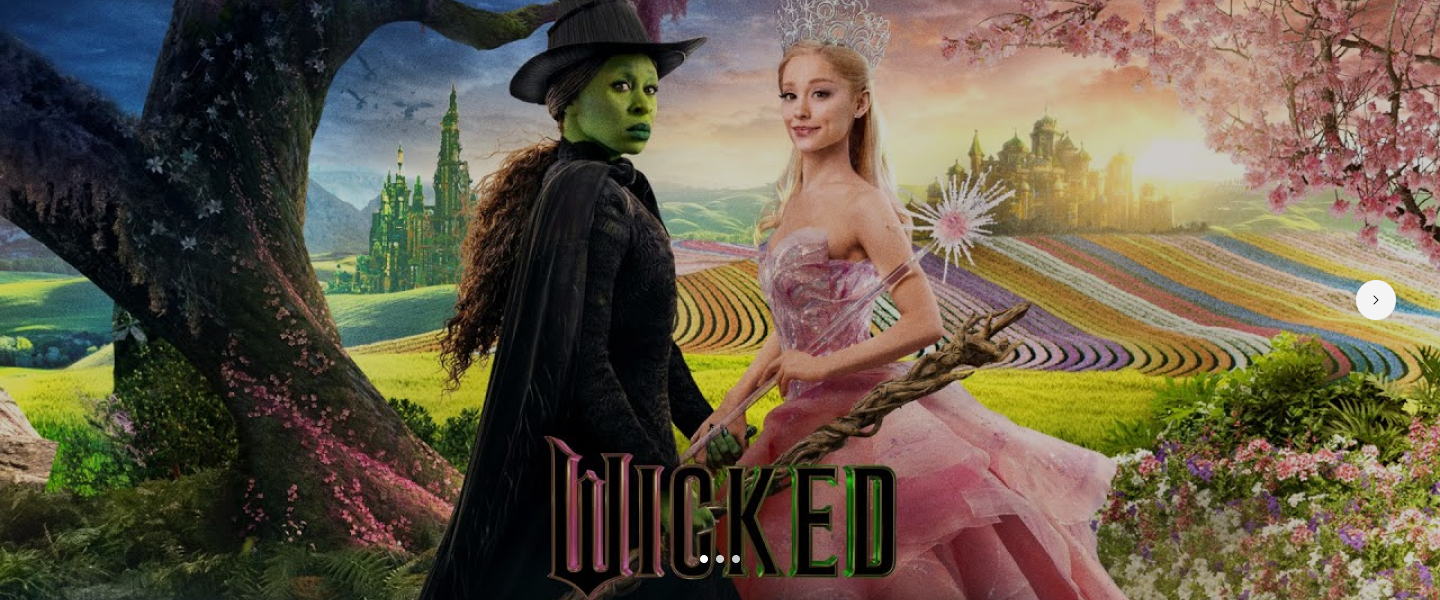
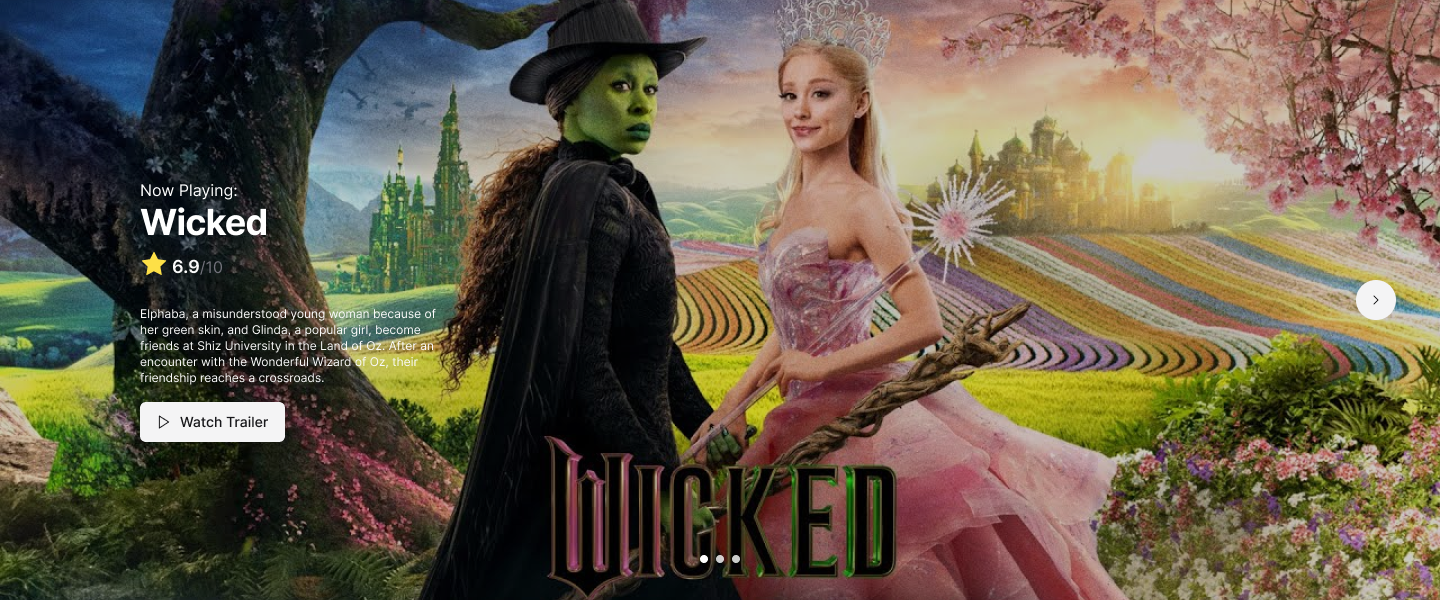
commit6

Changed region(s): [[0.0938, 0.51, 0.3125, 0.75], [0.0938, 0.3, 0.1875, 0.39], [0.0938, 0.42, 0.1562, 0.45]]

diff --git a/src/components/ui/pagination.tsx b/src/components/ui/pagination.tsx
@@ -1,0 +1,117 @@
+import * as React from "react"
+import { ChevronLeft, ChevronRight, MoreHorizontal } from "lucide-react"
+
+import { cn } from "@/lib/utils"
+import { ButtonProps, buttonVariants } from "@/components/ui/button"
+
+const Pagination = ({ className, ...props }: React.ComponentProps<"nav">) => (
+  <nav
+    role="navigation"
+    aria-label="pagination"
+    className={cn("mx-auto flex w-full justify-center", className)}
+    {...props}
+  />
+)
+Pagination.displayName = "Pagination"
+
+const PaginationContent = React.forwardRef<
+  HTMLUListElement,
+  React.ComponentProps<"ul">
+>(({ className, ...props }, ref) => (
+  <ul
+    ref={ref}
+    className={cn("flex flex-row items-center gap-1", className)}
+    {...props}
+  />
+))
+PaginationContent.displayName = "PaginationContent"
+
+const PaginationItem = React.forwardRef<
+  HTMLLIElement,
+  React.ComponentProps<"li">
+>(({ className, ...props }, ref) => (
+  <li ref={ref} className={cn("", className)} {...props} />
+))
+PaginationItem.displayName = "PaginationItem"
+
+type PaginationLinkProps = {
+  isActive?: boolean
+} & Pick<ButtonProps, "size"> &
+  React.ComponentProps<"a">
+
+const PaginationLink = ({
+  className,
+  isActive,
+  size = "icon",
+  ...props
+}: PaginationLinkProps) => (
+  <a
+    aria-current={isActive ? "page" : undefined}
+    className={cn(
+      buttonVariants({
+        variant: isActive ? "outline" : "ghost",
+        size,
+      }),
+      className
+    )}
+    {...props}
+  />
+)
+PaginationLink.displayName = "PaginationLink"
+
+const PaginationPrevious = ({
+  className,
+  ...props
+}: React.ComponentProps<typeof PaginationLink>) => (
+  <PaginationLink
+    aria-label="Go to previous page"
+    size="default"
+    className={cn("gap-1 pl-2.5", className)}
+    {...props}
+  >
+    <ChevronLeft className="h-4 w-4" />
+    <span>Previous</span>
+  </PaginationLink>
+)
+PaginationPrevious.displayName = "PaginationPrevious"
+
+const PaginationNext = ({
+  className,
+  ...props
+}: React.ComponentProps<typeof PaginationLink>) => (
+  <PaginationLink
+    aria-label="Go to next page"
+    size="default"
+    className={cn("gap-1 pr-2.5", className)}
+    {...props}
+  >
+    <span>Next</span>
+    <ChevronRight className="h-4 w-4" />
+  </PaginationLink>
+)
+PaginationNext.displayName = "PaginationNext"
+
+const PaginationEllipsis = ({
+  className,
+  ...props
+}: React.ComponentProps<"span">) => (
+  <span
+    aria-hidden
+    className={cn("flex h-9 w-9 items-center justify-center", className)}
+    {...props}
+  >
+    <MoreHorizontal className="h-4 w-4" />
+    <span className="sr-only">More pages</span>
+  </span>
+)
+PaginationEllipsis.displayName = "PaginationEllipsis"
+
+export {
+  Pagination,
+  PaginationContent,
+  PaginationLink,
+  PaginationItem,
+  PaginationPrevious,
+  PaginationNext,
+  PaginationEllipsis,
+}

diff --git a/src/app/movie/[id]/page.tsx b/src/app/movie/[id]/page.tsx
@@ -5,11 +5,19 @@ import { Moon } from "lucide-react";
 import { ArrowBigLeft, ArrowBigRight, Film } from "lucide-react";
 import { movieDetails } from "@/app/constants/types";
 import { options } from "@/app/constants/types";
+import { Body } from "@/app/_components/Body";
+type Genre = {
+  id: number;
+  name: string;
+};
 export default async function Page({ params }: movieDetails) {
   const response = await fetch(
     `https://api.themoviedb.org/3/movie/${params.id},`,
     options
   );
+  const Tdb = "https://image.tmdb.org/t/p/w500";
+  const resJson = await response.json();
+  console.log(resJson);
   return (
     <div>
       <div>
@@ -28,7 +36,33 @@ export default async function Page({ params }: movieDetails) {
           </div>
         </div>
       </div>
-      <p>{params.title}</p>
+
+      <div>{resJson.title}</div>
+      <div>{resJson.release_date}</div>
+      <div>⭐{resJson.vote_average.toFixed(1)}/10</div>
+      <img
+        className="rounded-t-lg"
+        src={`${Tdb}${resJson.backdrop_path}`}
+      ></img>
+      <div className="flex">
+        <div>
+          {" "}
+          <img
+            src={`${Tdb}${resJson.poster_path}`}
+            width={100}
+            height={148}
+          ></img>
+        </div>
+        <div>
+          {" "}
+          <div>
+            {resJson?.genres?.map((genre: Genre) => (
+              <div key={genre.id}>{genre.name}</div>
+            ))}
+          </div>
+          <div>{resJson.overview}</div>
+        </div>
+      </div>
     </div>
   );
 }

diff --git a/src/app/_components/header.tsx b/src/app/_components/header.tsx
@@ -38,11 +38,7 @@ export const Header = () => {
         <Carousel setApi={setApi} opts={{ loop: true }}>
           <CarouselContent>
             <CarouselItem>
-              <img
-                className="sm:min-w-[375px] 2xl:w-[1536px]"
-                src="pic1.png"
-                alt=""
-              />
+              <img src="pic1.png" alt="" />
               <div className="text-[14px]">
                 Now playing:
                 <div className="flex justify-between">
@@ -63,7 +59,7 @@ export const Header = () => {
               </div>
             </CarouselItem>
             <CarouselItem>
-              <img className="h-[246px]" src="pic2.png" alt="" />
+              <img src="pic2.png" alt="" />
               <div className="text-[14px]">
                 Now playing:
                 <div className="flex justify-between">
@@ -83,7 +79,7 @@ export const Header = () => {
               </div>
             </CarouselItem>
             <CarouselItem>
-              <img className="h-[246px]" src="pic3.png" alt="" />
+              <img src="pic3.png" alt="" />
               <div className="text-[14px]">
                 Now playing:
                 <div className="flex justify-between">

diff --git a/src/app/[category]/page.tsx b/src/app/[category]/page.tsx
@@ -1,3 +1,13 @@
+import {
+  Pagination,
+  PaginationContent,
+  PaginationEllipsis,
+  PaginationItem,
+  PaginationLink,
+  PaginationNext,
+  PaginationPrevious,
+} from "@/components/ui/pagination";
+
 import { Body } from "../_components/Body";
 type Props = {
   params: {
@@ -10,6 +20,24 @@ export default function Home({ params }: Props) {
   return (
     <>
       <Body category={params.category} endpoint={params.category} />
+      <Pagination>
+        <PaginationContent>
+          <PaginationItem>
+            <PaginationPrevious href="#" />
+          </PaginationItem>
+          <PaginationItem>
+            <PaginationLink href="#">1</PaginationLink>
+            <PaginationLink href="#">2</PaginationLink>
+            <PaginationLink href="#">3</PaginationLink>
+          </PaginationItem>
+          <PaginationItem>
+            <PaginationEllipsis />
+          </PaginationItem>
+          <PaginationItem>
+            <PaginationNext href="#" />
+          </PaginationItem>
+        </PaginationContent>
+      </Pagination>
     </>
   );
 }

diff --git a/src/app/_components/Body.tsx b/src/app/_components/Body.tsx
@@ -47,7 +47,7 @@ export const Body = async ({ category, endpoint }: Props) => {
             <div key={movie.id}>
               <Link href={`/movie/${movie.id}`}>
                 <img
-                  className="rounded-t-lg"
+                  className="rounded-t-lg "
                   src={`${Tdb}${movie.poster_path}`}
                   width={160}
                   height={240}
@@ -65,12 +65,3 @@ export const Body = async ({ category, endpoint }: Props) => {
     </div>
   );
 };
-
-// export const Card = () => {
-//   return (
-//     <div className="bg-gray-500 w-[157.5px] h-[309.1px]">
-//       <div>⭐</div>
-//       <div>{Information.Title}</div>
-//     </div>
-//   );
-// };

diff --git a/src/app/layout.tsx b/src/app/layout.tsx
@@ -29,7 +29,7 @@ export default function RootLayout({
         className={`${geistSans.variable} ${geistMono.variable} antialiased`}
       >
         {children}
-        <main className="min-h-screen"></main>
+        <main className="min-h-[100px]"></main>
         <Footer />
       </body>
     </html>

diff --git a/src/app/_components/Footer.tsx b/src/app/_components/Footer.tsx
@@ -2,7 +2,6 @@ import { Film } from "lucide-react";
 import { Mail } from "lucide-react";
 import { Phone } from "lucide-react";
 
-let poster = "";
 const Footer = () => {
   return (
     <div className="bg-[#4338CA] w-screen h-[308px] relative">
